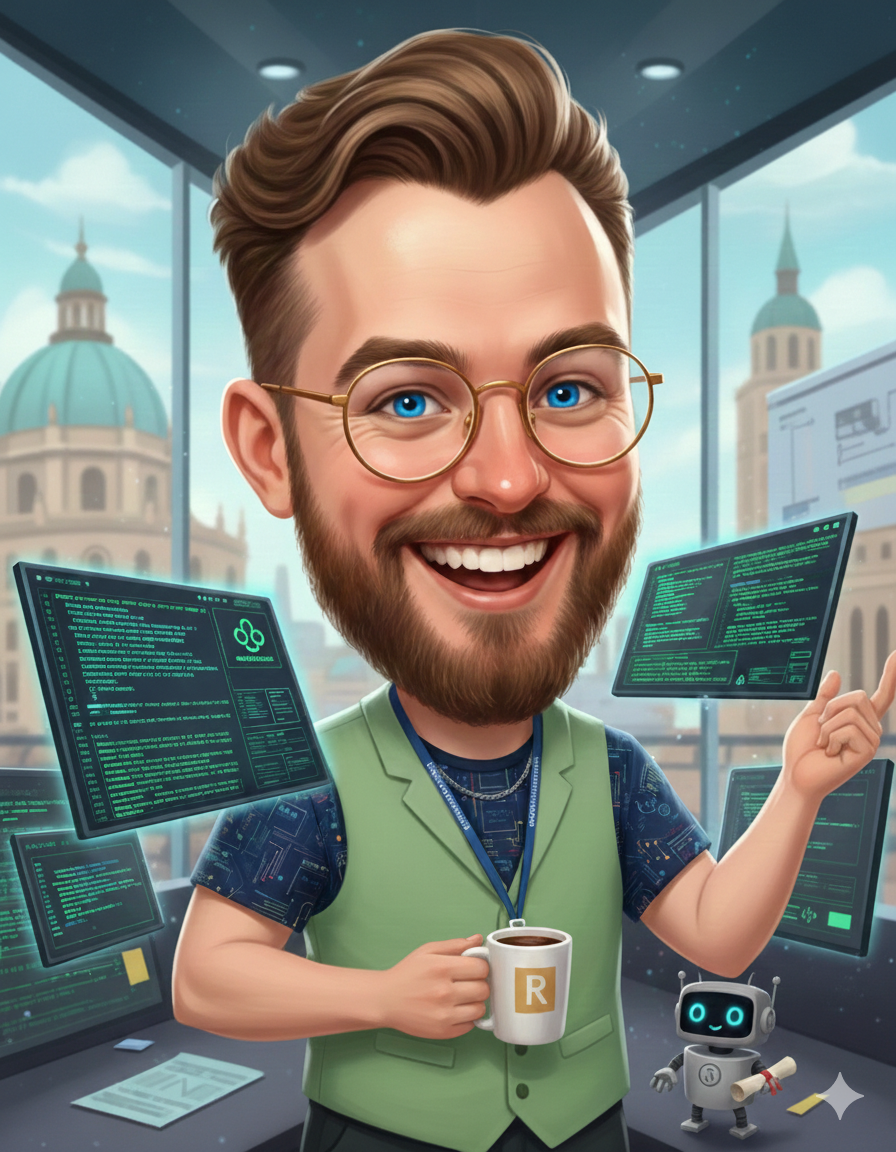
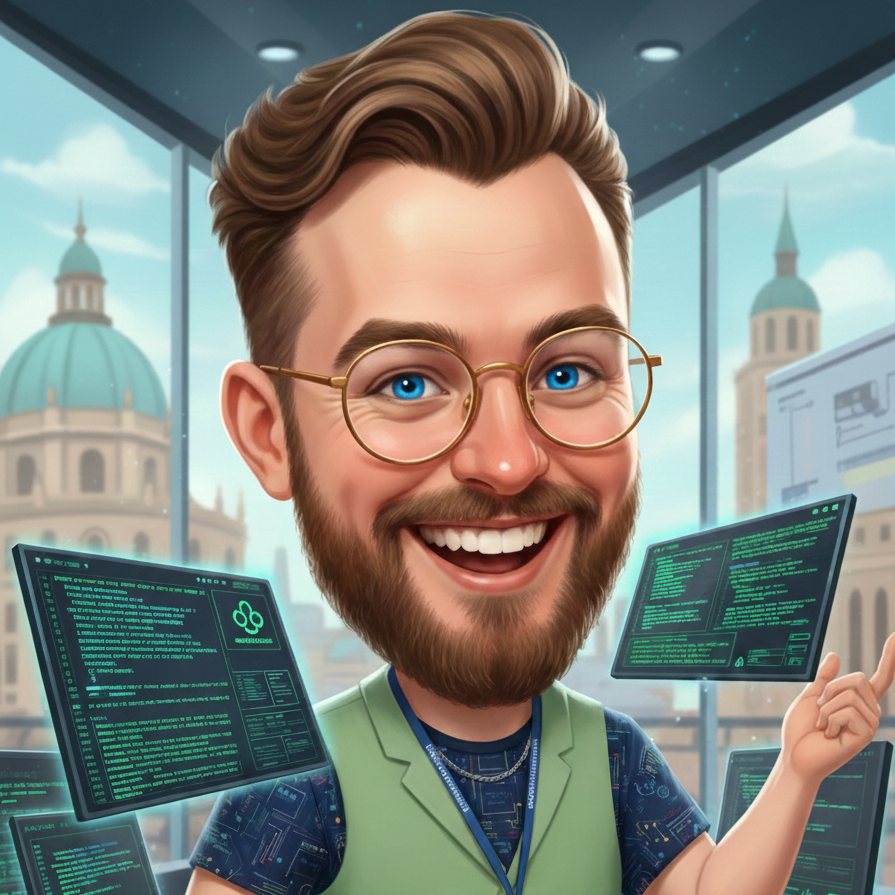
Updated Hero image size

diff --git a/src/components/hero/Hero.tsx b/src/components/hero/Hero.tsx
@@ -37,9 +37,9 @@ export default function Hero() {
           <img
             src={heroContent.image}
             style={{
-              width: '100%',
               maxWidth: '250px',
-              height: 'auto',
+              height: '15rem',
+              width: '15rem',
               borderRadius: '8px',
               boxShadow: '0 4px 16px rgba(0, 0, 0, 0.1)',
               padding: '8px',
